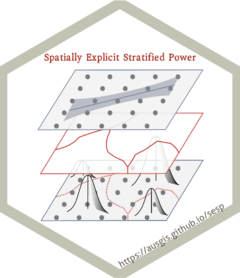
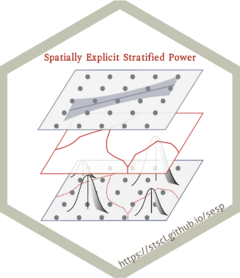
deploy: 831bdd6e547d72ced9e47f07427a51cddc9bc6dc

Changed region(s): [[0.4958, 0.7482, 0.9042, 0.9496], [0.9042, 0.7194, 0.9333, 0.7482]]

diff --git a/projects/sesp/index.html b/projects/sesp/index.html
@@ -179,11 +179,11 @@
 <h3 id="goal">goal</h3>
 <p><em>Assessing the spatial association between variables through an equivalent geographical detector q-statistic within a regression framework.</em></p>
 <h3 id="document">document</h3>
-<p>You can see the document of <strong>sesp</strong> in <a href="https://ausgis.github.io/sesp/">here</a></p>
+<p>You can see the document of <strong>sesp</strong> in <a href="https://stscl.github.io/sesp/">here</a></p>
 <h3 id="source-code">source code</h3>
-<p>The source code of <strong>sesp</strong> is in <a href="https://github.com/ausgis/sesp/">here</a></p>
+<p>The source code of <strong>sesp</strong> is in <a href="https://github.com/stscl/sesp/">here</a></p>
 <h3 id="feedback">feedback</h3>
-<p>If you have any questions or suggestions, please post them in <a href="https://github.com/ausgis/sesp/issues">sesp github repo issue</a>.</p>
+<p>If you have any questions or suggestions, please post them in <a href="https://github.com/stscl/sesp/issues">sesp github repo issue</a>.</p>
 
     </div>
 </div>
